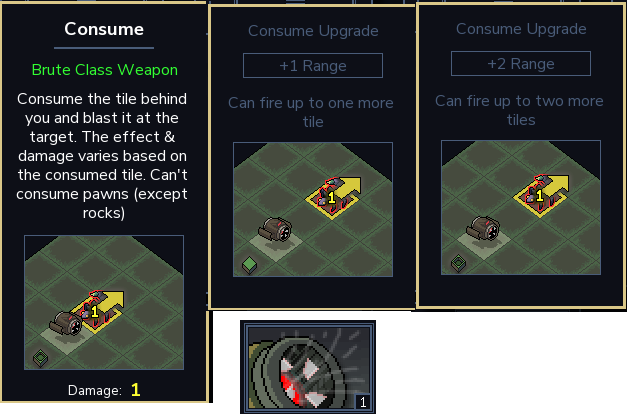
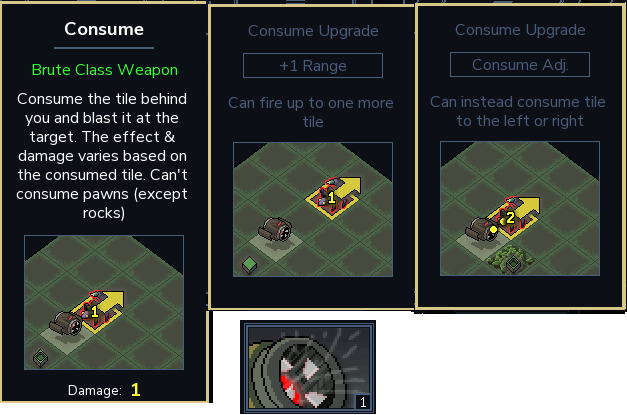
Updating consume image and missed readme

diff --git a/readme.md b/readme.md
@@ -42,14 +42,16 @@ Treeherders 3.0.2
 Some minor fixes
 
 Released: xx/xx/2026
-Treeherders 3.0.2
-WorldBuilders 1.2.0
+
+Squads:
+*Treeherders 3.0.2
+*WorldBuilders 1.2.0
 
 Libs:
 BoardUtils 1.1.0
-PassiveEffect 1.2.0
-PredictableRandom 1.1.0
-Trait 2.3.0
+*PassiveEffect 1.2.0
+*PredictableRandom 1.1.0
+*Trait 2.3.0
 
 ## 1.2.1
 Worldbuilder enhancments. Significantly better swapping compatibility and adding a more interesting consume upgrade
